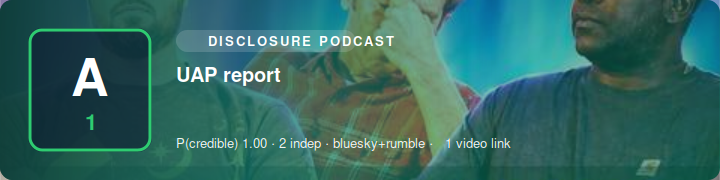
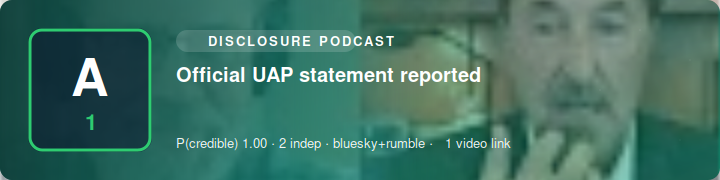
SITREP 2026-07-18 19:30 UTC

diff --git a/index.html b/index.html
@@ -1,1 +1,1 @@
-<!doctype html><meta charset=utf-8><title>Science Bob News — SITREP</title><style>body{font:16px/1.5 system-ui,sans-serif;max-width:760px;margin:2rem auto;padding:0 1rem;color:#111}h1{font-size:1.5rem}h2{margin-top:1.6rem;border-bottom:1px solid #ddd;padding-bottom:.2rem}ul{list-style:none;padding:0}li{margin:.9rem 0}.hl{font-weight:600}.meta{color:#555;font-size:.85rem}.src{font-size:.85rem}.vid{font-size:.85rem;margin-top:.15rem}.card{display:block;max-width:100%;height:auto;border-radius:8px;margin:.4rem 0 .5rem}.upd{background:#fde68a;padding:0 .3rem;border-radius:.2rem;font-size:.75rem}.sub{color:#777;font-size:.85rem}footer{color:#777;font-size:.8rem;margin-top:2rem;border-top:1px solid #ddd;padding-top:.6rem}</style><h1>🛸 Science Bob News</h1><div class="sub">UAP / UFO / USO SITREP · updated 2026-07-18 19:20 UTC · automated</div><h2>Corroborated</h2><ul><li><i>No corroborated reports.</i></li></ul><h2>Developing / unconfirmed</h2><ul><li><img class="card" src="https://n4hy.github.io/sciencebobnews-site/card_d_1.svg" alt="" width="720" height="180"><div class="hl">UAP report (McMinnville)</div><div class="meta">reliability <b>A1</b> · P(credible)=1.0 · 1 independent source(s) · rumble</div><div class="src"><a href="https://www.youtube.com/watch?v=7OT6uJ0yzVY">@podcast</a></div><div class="vid">📹 <a href="https://www.youtube.com/watch?v=7OT6uJ0yzVY">video</a></div></li><li><img class="card" src="https://n4hy.github.io/sciencebobnews-site/card_d_2.svg" alt="" width="720" height="180"><div class="hl">UAP whistleblower testimony reported (Frank)</div><div class="meta">reliability <b>A1</b> · P(credible)=1.0 · 1 independent source(s) · rumble</div><div class="src"><a href="https://www.youtube.com/watch?v=CxvFVjJKZtA">@podcast</a></div><div class="vid">📹 <a href="https://www.youtube.com/watch?v=CxvFVjJKZtA">video</a></div></li><li><img class="card" src="https://n4hy.github.io/sciencebobnews-site/card_d_3.svg" alt="" width="720" height="180"><div class="hl">UAP whistleblower testimony reported (American)</div><div class="meta">reliability <b>A1</b> · P(credible)=1.0 · 1 independent source(s) · rumble</div><div class="src"><a href="https://www.youtube.com/watch?v=LPtMaGpuK-M">@podcast</a></div><div class="vid">📹 <a href="https://www.youtube.com/watch?v=LPtMaGpuK-M">video</a></div></li><li><img class="card" src="https://n4hy.github.io/sciencebobnews-site/card_d_4.svg" alt="" width="720" height="180"><div class="hl">UAP report (Australia)</div><div class="meta">reliability <b>A1</b> · P(credible)=1.0 · 1 independent source(s) · rumble</div><div class="src"><a href="https://www.youtube.com/watch?v=ZegQhxJrJGo">@podcast</a></div><div class="vid">📹 <a href="https://www.youtube.com/watch?v=ZegQhxJrJGo">video</a></div></li><li><img class="card" src="https://n4hy.github.io/sciencebobnews-site/card_d_5.svg" alt="" width="720" height="180"><div class="hl">Official UAP statement reported (Petaluma)</div><div class="meta">reliability <b>A1</b> · P(credible)=1.0 · 1 independent source(s) · rumble</div><div class="src"><a href="https://www.youtube.com/watch?v=91mfojYSseo">@podcast</a></div><div class="vid">📹 <a href="https://www.youtube.com/watch?v=91mfojYSseo">video</a></div></li></ul><footer><b>Powered by Science Bob News.</b> Free to use with credit (see LICENSE). Headlines are factual restatements in the engine's own words; click sources for originals. Single-origin reposts collapse to one source; prosaic candidates flagged where offered.</footer>
+<!doctype html><meta charset=utf-8><title>Science Bob News — SITREP</title><style>body{font:16px/1.5 system-ui,sans-serif;max-width:760px;margin:2rem auto;padding:0 1rem;color:#111}h1{font-size:1.5rem}h2{margin-top:1.6rem;border-bottom:1px solid #ddd;padding-bottom:.2rem}ul{list-style:none;padding:0}li{margin:.9rem 0}.hl{font-weight:600}.meta{color:#555;font-size:.85rem}.src{font-size:.85rem}.vid{font-size:.85rem;margin-top:.15rem}.card{display:block;max-width:100%;height:auto;border-radius:8px;margin:.4rem 0 .5rem}.upd{background:#fde68a;padding:0 .3rem;border-radius:.2rem;font-size:.75rem}.sub{color:#777;font-size:.85rem}footer{color:#777;font-size:.8rem;margin-top:2rem;border-top:1px solid #ddd;padding-top:.6rem}</style><h1>🛸 Science Bob News</h1><div class="sub">UAP / UFO / USO SITREP · updated 2026-07-18 19:30 UTC · automated</div><h2>Corroborated</h2><ul><li><img class="card" src="https://n4hy.github.io/sciencebobnews-site/card_c_1.svg" alt="" width="720" height="180"><div class="hl">Official UAP statement reported</div><div class="meta">reliability <b>A1</b> · P(credible)=1.0 · 2 independent source(s) · bluesky+rumble</div><div class="src"><a href="https://www.youtube.com/watch?v=q1x2EzAbXgc">@podcast</a> · <a href="https://bsky.app/profile/did:plc:nevw4u7spxbgbwbh6ckoqzjz/post/3mqwytqiprt2q">@did:plc:nevw4u7spxbgbwbh6ckoqzjz</a></div><div class="vid">📹 <a href="https://www.youtube.com/watch?v=q1x2EzAbXgc">video</a></div></li></ul><h2>Developing / unconfirmed</h2><ul><li><img class="card" src="https://n4hy.github.io/sciencebobnews-site/card_d_1.svg" alt="" width="720" height="180"><div class="hl">UAP report (McMinnville)</div><div class="meta">reliability <b>A1</b> · P(credible)=1.0 · 1 independent source(s) · rumble</div><div class="src"><a href="https://www.youtube.com/watch?v=7OT6uJ0yzVY">@podcast</a></div><div class="vid">📹 <a href="https://www.youtube.com/watch?v=7OT6uJ0yzVY">video</a></div></li><li><img class="card" src="https://n4hy.github.io/sciencebobnews-site/card_d_2.svg" alt="" width="720" height="180"><div class="hl">UAP whistleblower testimony reported (Frank)</div><div class="meta">reliability <b>A1</b> · P(credible)=1.0 · 1 independent source(s) · rumble</div><div class="src"><a href="https://www.youtube.com/watch?v=CxvFVjJKZtA">@podcast</a></div><div class="vid">📹 <a href="https://www.youtube.com/watch?v=CxvFVjJKZtA">video</a></div></li><li><img class="card" src="https://n4hy.github.io/sciencebobnews-site/card_d_3.svg" alt="" width="720" height="180"><div class="hl">UAP whistleblower testimony reported (American)</div><div class="meta">reliability <b>A1</b> · P(credible)=1.0 · 1 independent source(s) · rumble</div><div class="src"><a href="https://www.youtube.com/watch?v=LPtMaGpuK-M">@podcast</a></div><div class="vid">📹 <a href="https://www.youtube.com/watch?v=LPtMaGpuK-M">video</a></div></li><li><img class="card" src="https://n4hy.github.io/sciencebobnews-site/card_d_4.svg" alt="" width="720" height="180"><div class="hl">UAP report (Australia)</div><div class="meta">reliability <b>A1</b> · P(credible)=1.0 · 1 independent source(s) · rumble</div><div class="src"><a href="https://www.youtube.com/watch?v=ZegQhxJrJGo">@podcast</a></div><div class="vid">📹 <a href="https://www.youtube.com/watch?v=ZegQhxJrJGo">video</a></div></li><li><img class="card" src="https://n4hy.github.io/sciencebobnews-site/card_d_5.svg" alt="" width="720" height="180"><div class="hl">Official UAP statement reported (Petaluma)</div><div class="meta">reliability <b>A1</b> · P(credible)=1.0 · 1 independent source(s) · rumble</div><div class="src"><a href="https://www.youtube.com/watch?v=91mfojYSseo">@podcast</a></div><div class="vid">📹 <a href="https://www.youtube.com/watch?v=91mfojYSseo">video</a></div></li></ul><footer><b>Powered by Science Bob News.</b> Free to use with credit (see LICENSE). Headlines are factual restatements in the engine's own words; click sources for originals. Single-origin reposts collapse to one source; prosaic candidates flagged where offered.</footer>

diff --git a/sitrep.md b/sitrep.md
@@ -1,8 +1,13 @@
 # 🛸 Science Bob News — UAP / UFO / USO SITREP
-*Updated 2026-07-18 19:20 UTC · auto-generated · sources credited & linked · reliability ratings are automated, not editorial*
+*Updated 2026-07-18 19:30 UTC · auto-generated · sources credited & linked · reliability ratings are automated, not editorial*
 
 ## Corroborated
-_No corroborated reports this cycle._
+
+![Official UAP statement reported](https://n4hy.github.io/sciencebobnews-site/card_c_1.svg)
+1. **Official UAP statement reported**  
+   reliability **A1** · P(credible)=1.0 · 2 independent source(s) · bluesky+rumble  
+   [@podcast](https://www.youtube.com/watch?v=q1x2EzAbXgc) · [@did:plc:nevw4u7spxbgbwbh6ckoqzjz](https://bsky.app/profile/did:plc:nevw4u7spxbgbwbh6ckoqzjz/post/3mqwytqiprt2q)  
+   📹 [video](https://www.youtube.com/watch?v=q1x2EzAbXgc)
 
 ## Developing / unconfirmed
 
